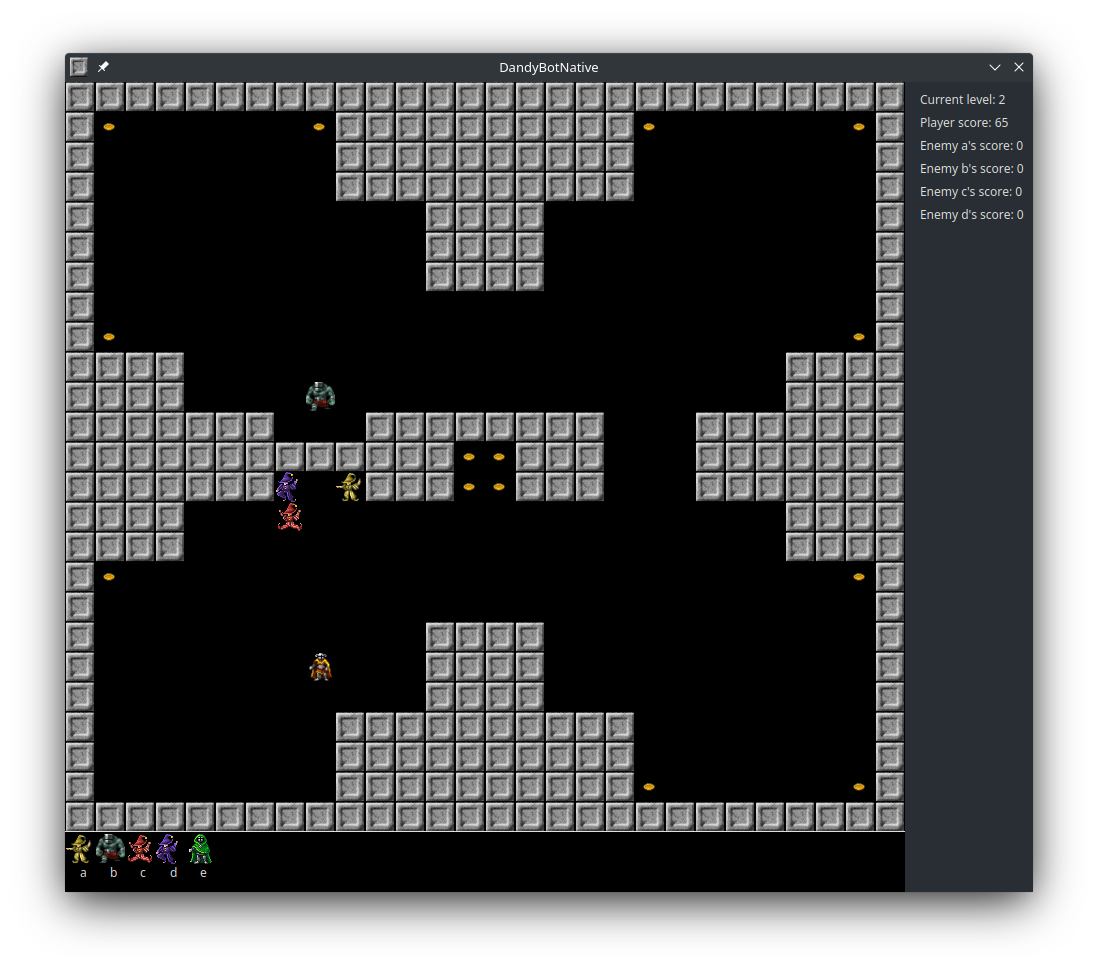
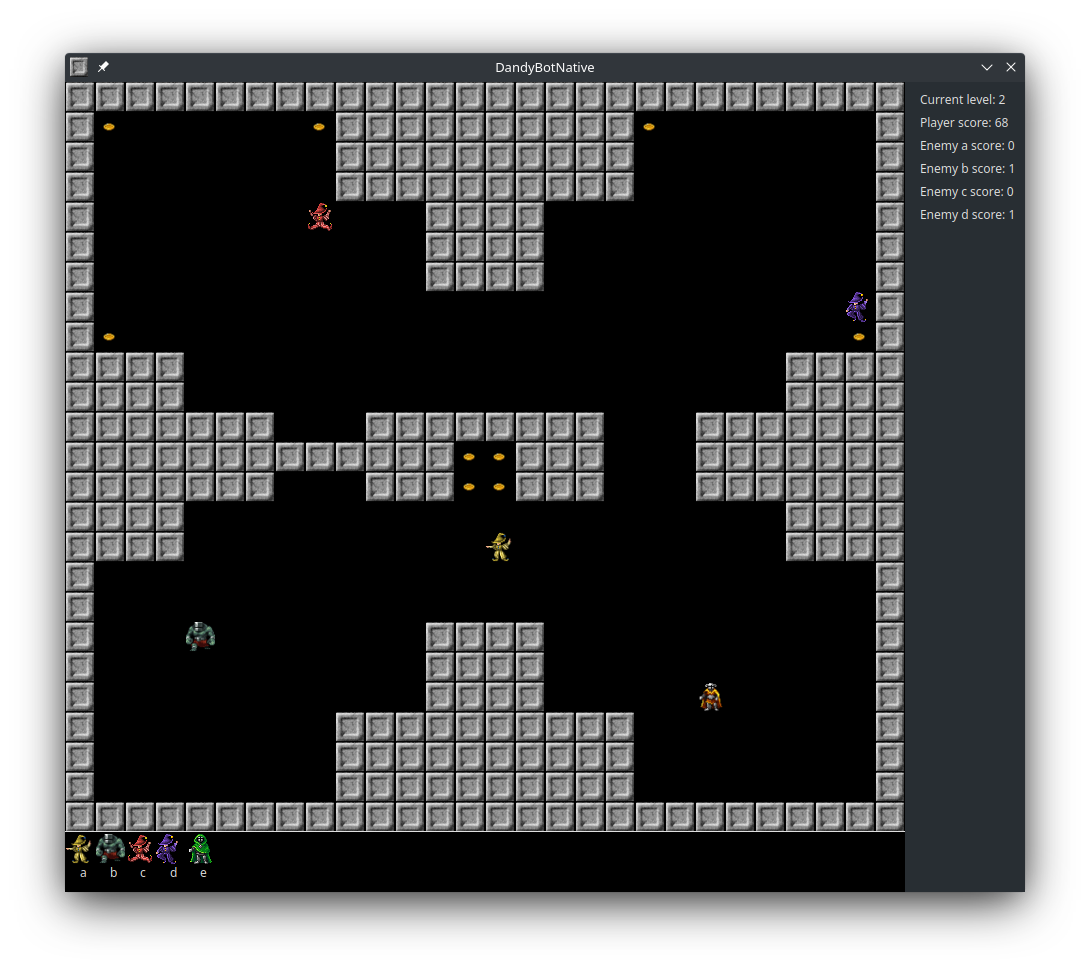
C scripting

diff --git a/sharedLib/script.h b/sharedLib/script.h
@@ -29,42 +29,32 @@
 
 #pragma once
 
-#include "util.hpp"
+#define EMPTY ' '
+#define BLOCK '#'
+#define COIN_MIN '1'
+#define COIN_MAX '9'
+#define ENEMY_MIN 'a'
+#define ENEMY_MAX 'f'
+#define PLAYER '!'
 
-extern unsigned APP_WIDTH;
-extern unsigned APP_HEIGHT;
-extern c_str APP_ICON;
-extern c_str APP_NAME;
-extern c_str START_GAME;
-extern c_str GAME_DATA;
-extern c_str LEVELS;
-extern c_str MAP;
-extern c_str START;
-extern c_str STEPS;
-extern c_str BOTS;
-extern c_str MAPS;
-extern const char EMPTY_OBJ;
-extern const char BLOC_OBJ;
-extern const char COIN_MIN_OBJ;
-extern const char COIN_MAX_OBJ;
-extern const char ENEMY_MIN_OBJ;
-extern const char ENEMY_MAX_OBJ;
-extern const char PLAYER_OBJ;
-extern unsigned GAME_OBJECT_SIZE;
-extern c_str EMPTY_ICON;
-extern c_str BLOC_ICON;
-extern c_str COIN_ICON;
-extern c_str ENEMY_ICON_PREFIX;
-extern c_str ICON_SUFFIX;
-extern c_str PLAYER_ICON;
-extern c_str YOU_WON;
-extern c_str PLAYER_SCORE;
-extern c_str CURRENT_LEVEL;
-extern unsigned TICK_INTERVAL;
-extern float BOT_MOVE_CHANCE;
-extern float BOT_COIN_TAKE_CHANCE;
-extern float PLAYER_SCORE_TO_WIN_MULTIPLIER;
-extern c_str ENEMY;
-extern c_str SCORE;
-extern c_str SCRIPT_LIB_PATH;
-extern c_str SCRIPT_FUN_NAME;
+#define UP 87
+#define LEFT 65
+#define DOWN 83
+#define RIGHT 68
+#define PASS -1
+
+/**
+ * Returns an action to be performed by the player bot at the current bot tick.
+ * This function is called on every bot tick event.
+ *
+ * Coin objects are taken automatically when bot enters theirs coordinates.
+ *
+ * @param row - the y coordinate starting from left top
+ * @param column - the x coordinate starting from left top
+ * @param level - current level id starting from 0
+ * @param objectIds - an array containing 4 object ids for all directions at the current tick,
+ *        contains: {up, left, down, right}, array is deallocated automatically
+ *
+ * @return one of UP, LEFT, DOWN, RIGHT, PASS
+ */
+char script(unsigned row, unsigned column, unsigned level, char* objectIds);

diff --git a/src/logic/GameAlgorithm.cpp b/src/logic/GameAlgorithm.cpp
@@ -39,13 +39,17 @@
 #include <QApplication>
 #include <ctime>
 #include <cstdlib>
+#include <dlfcn.h>
 #include "GameAlgorithm.hpp"
 #include "../Exception.hpp"
 #include "../consts.hpp"
 
-GameAlgorithm::GameAlgorithm(QObject* parent)
-    : QObject(parent), mBoard(nullptr), mPlayer(nullptr), mCurrentLevelId(0), mHasWon(false), mTimer(this)
+GameAlgorithm::GameAlgorithm(QObject* parent) :
+    QObject(parent), mBoard(nullptr), mPlayer(nullptr), mCurrentLevelId(0),
+    mHasWon(false), mTimer(this), mScriptHandle(nullptr), mScript(nullptr)
 {
+    loadScriptLib();
+
     mObjectDescriptions[EMPTY_OBJ] = QIcon(EMPTY_ICON);
     mObjectDescriptions[BLOC_OBJ] = QIcon(BLOC_ICON);
     for (char i = COIN_MIN_OBJ; i <= COIN_MAX_OBJ; i++)
@@ -74,6 +78,7 @@ GameAlgorithm::~GameAlgorithm() {
     for (const GameLevel* item : mLevels) delete item;
     delete mPlayer;
     for (const Bot* item : mEnemies) delete item;
+    dlclose(mScriptHandle);
 }
 
 GameBoard* GameAlgorithm::board() const { return mBoard; }
@@ -95,6 +100,7 @@ void GameAlgorithm::onKeyPressed(KeyEvent key) { mKeyEvents.enqueue(key); }
 void GameAlgorithm::onTick() {
     if (!mKeyEvents.isEmpty())
         processKeyPress(mKeyEvents.dequeue(), mPlayer);
+    processKeyPress(static_cast<KeyEvent>(mScript(0, 0, 0, nullptr)), mPlayer);
 
     const auto chance = static_cast<float>(rand()) / static_cast<float>(RAND_MAX);
     if (chance <= BOT_MOVE_CHANCE) onBotTick();
@@ -355,3 +361,10 @@ void GameAlgorithm::spawnEnemies() {
 }
 
 unsigned GameAlgorithm::randUint(unsigned topBound) { return rand() / (RAND_MAX / topBound); }
+
+void GameAlgorithm::loadScriptLib() {
+    mScriptHandle = dlopen(SCRIPT_LIB_PATH, RTLD_NOW);
+    if (!mScriptHandle)
+        throw Exception("unable to load script library");
+    mScript = reinterpret_cast<script>(dlsym(mScriptHandle, SCRIPT_FUN_NAME));
+}

diff --git a/src/logic/GameAlgorithm.hpp b/src/logic/GameAlgorithm.hpp
@@ -60,6 +60,8 @@ public slots:
     void onTick();
     void onBotTick();
 private:
+    using script = char (*)(unsigned row, unsigned column, unsigned level, char* objectIds);
+
     void checkPlayerScore();
     void processEnemies();
     void processKeyPress(KeyEvent key, Bot* bot);
@@ -70,6 +72,7 @@ private:
     void generateCoordsForEnemies();
     void spawnEnemies();
     static unsigned randUint(unsigned topBound);
+    void loadScriptLib() EXCEPT;
 
     GameBoard* mBoard;
     QVector<const GameLevel*> mLevels;
@@ -81,4 +84,6 @@ private:
     QVector<Bot*> mEnemies;
     QVector<QPair<unsigned, unsigned>> mCurrentFreeCoords;
     QQueue<KeyEvent> mKeyEvents;
+    void* mScriptHandle;
+    script mScript;
 };

diff --git a/src/consts.cpp b/src/consts.cpp
@@ -58,9 +58,11 @@ c_str PLAYER_ICON = ":/dandyBot_player.png";
 c_str YOU_WON = "You has won";
 c_str PLAYER_SCORE = "Player score";
 c_str CURRENT_LEVEL = "Current level";
-unsigned TICK_INTERVAL = 25;
+unsigned TICK_INTERVAL = 50;
 float BOT_MOVE_CHANCE = 0.1;
 float BOT_COIN_TAKE_CHANCE = 0.25;
 float PLAYER_SCORE_TO_WIN_MULTIPLIER = 0.85;
 c_str ENEMY = "Enemy";
 c_str SCORE = "score";
+c_str SCRIPT_LIB_PATH = "../sharedLib/cmake-build-debug/libscript.so";
+c_str SCRIPT_FUN_NAME = "script";

diff --git a/sharedLib/script.c b/sharedLib/script.c
@@ -1,0 +1,6 @@
+
+#include "script.h"
+
+char script(unsigned row, unsigned column, unsigned level, char* objectIds) {
+    return RIGHT;
+}
